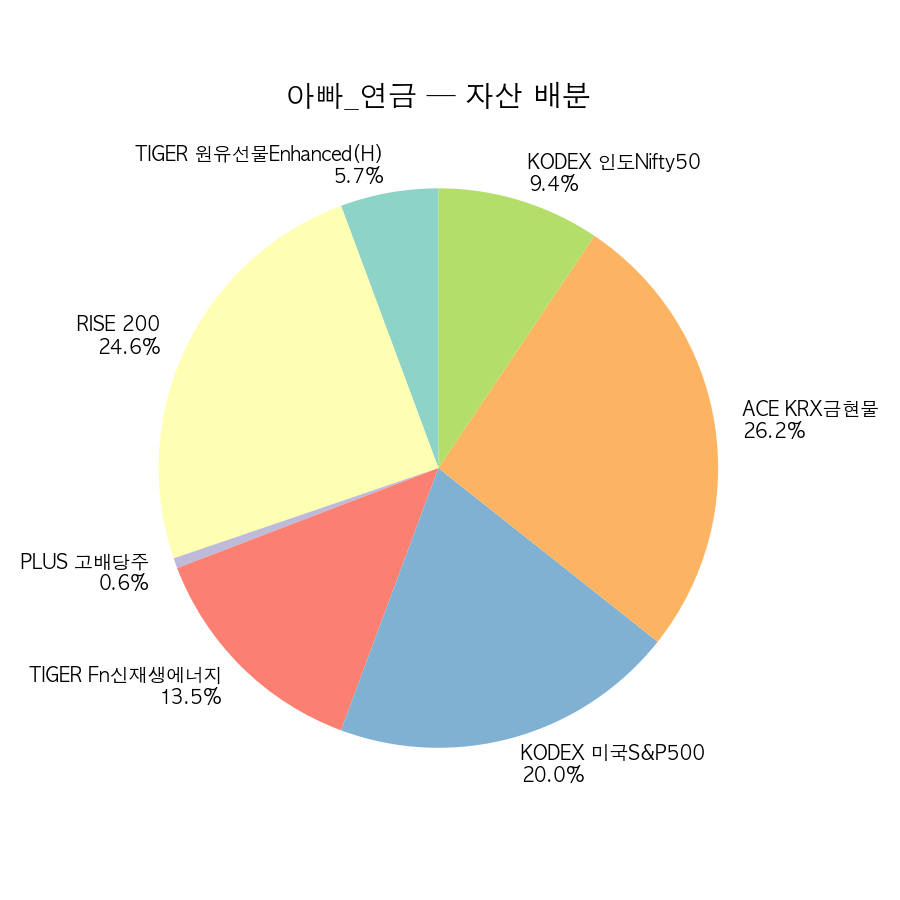
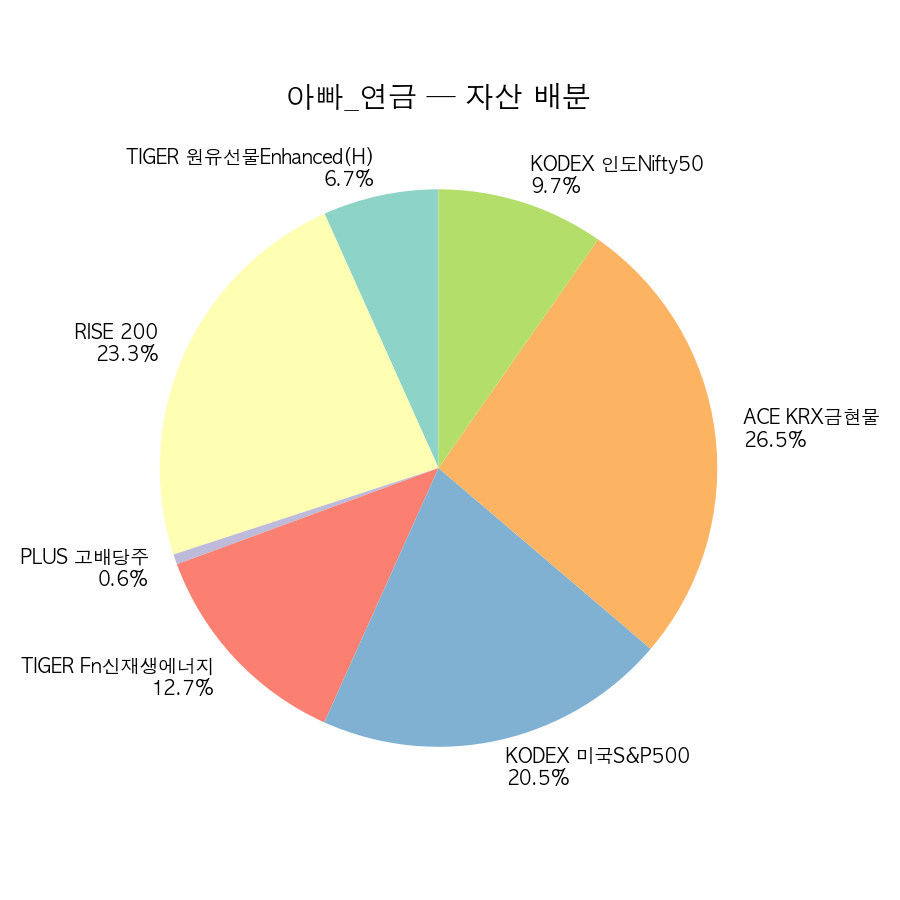
섹션별 주간 리포트 (자동 생성)

diff --git a/_posts/2026-07-24-etf-weekly-week16.md b/_posts/2026-07-24-etf-weekly-week16.md
@@ -1,0 +1,50 @@
+---
+layout: post
+title: "Week 16 — 부모님 연금 ETF 주간 리포트"
+date: 2026-07-24
+categories: [investing, etf]
+tags: [weekly]
+---
+
+> 부모님 연금저축 ETF 실험 — 16주차 기록.
+
+---
+
+## 16주차 성과
+
+### 엄마_연금
+
+| 종목 | 수량 | 평단가 | 종가 | 평가액 | 수익률 |
+|------|------|--------|------|--------|--------|
+| ACE KRX금현물 | 42주 | ₩30,882 | ₩26,360 | ₩1,107,120 | -14.6% |
+| RISE 200 | 9주 | ₩80,163 | ₩107,935 | ₩971,415 | +34.6% |
+| KODEX 미국S&P500 | 34주 | ₩22,947 | ₩25,140 | ₩854,760 | +9.6% |
+| TIGER Fn신재생에너지 | 24주 | ₩28,056 | ₩22,030 | ₩528,720 | -21.5% |
+| KODEX 인도Nifty50 | 32주 | ₩12,525 | ₩12,650 | ₩404,800 | +1.0% |
+| TIGER 원유선물Enhanced(H) | 41주 | ₩6,413 | ₩6,820 | ₩279,620 | +6.3% |
+
+**투자 ₩4,135,767 → 평가 ₩4,146,435 | +10,668원 (+0.3%)**
+
+예수금: ₩2,475,958
+---
+
+### 아빠_연금
+
+| 종목 | 수량 | 평단가 | 종가 | 평가액 | 수익률 |
+|------|------|--------|------|--------|--------|
+| ACE KRX금현물 | 42주 | ₩30,883 | ₩26,355 | ₩1,106,910 | -14.7% |
+| RISE 200 | 9주 | ₩80,165 | ₩108,055 | ₩972,495 | +34.8% |
+| KODEX 미국S&P500 | 34주 | ₩22,945 | ₩25,140 | ₩854,760 | +9.6% |
+| TIGER Fn신재생에너지 | 24주 | ₩28,048 | ₩22,030 | ₩528,720 | -21.4% |
+| KODEX 인도Nifty50 | 32주 | ₩12,535 | ₩12,645 | ₩404,640 | +0.9% |
+| TIGER 원유선물Enhanced(H) | 41주 | ₩6,405 | ₩6,825 | ₩279,825 | +6.5% |
+| PLUS 고배당주 | 1주 | ₩25,370 | ₩24,795 | ₩24,795 | -2.3% |
+
+**투자 ₩4,160,932 → 평가 ₩4,172,145 | +11,213원 (+0.3%)**
+
+예수금: ₩1,861,134
+
+
+---
+
+*데이터: 한국투자증권 KIS Open API / 2026-07-24 장 마감 기준*

diff --git a/_posts/2026-07-24-dividend-weekly-week16.md b/_posts/2026-07-24-dividend-weekly-week16.md
@@ -1,0 +1,32 @@
+---
+layout: post
+title: "Week 16 — ISA 배당 포트 주간 리포트"
+date: 2026-07-24
+categories: [investing, dividend]
+tags: [weekly]
+---
+
+> ISA 배당 포트폴리오 — 16주차 기록.
+
+---
+
+## 16주차 성과
+
+### 한투_ISA
+
+| 종목 | 수량 | 평단가 | 종가 | 평가액 | 수익률 |
+|------|------|--------|------|--------|--------|
+| 삼성화재우 | 5주 | ₩374,400 | ₩407,000 | ₩2,035,000 | +8.7% |
+| KT&G | 10주 | ₩168,190 | ₩176,600 | ₩1,766,000 | +5.0% |
+| 빙그레 | 25주 | ₩73,386 | ₩68,100 | ₩1,702,500 | -7.2% |
+| KODEX 고배당주 | 94주 | ₩18,052 | ₩17,955 | ₩1,687,770 | -0.5% |
+| 고려신용정보 | 175주 | ₩10,209 | ₩9,480 | ₩1,659,000 | -7.1% |
+
+**투자 ₩8,872,110 → 평가 ₩8,850,270 | -21,840원 (-0.2%)**
+
+예수금: ₩4,888
+
+
+---
+
+*데이터: 한국투자증권 KIS Open API / 2026-07-24 장 마감 기준*
